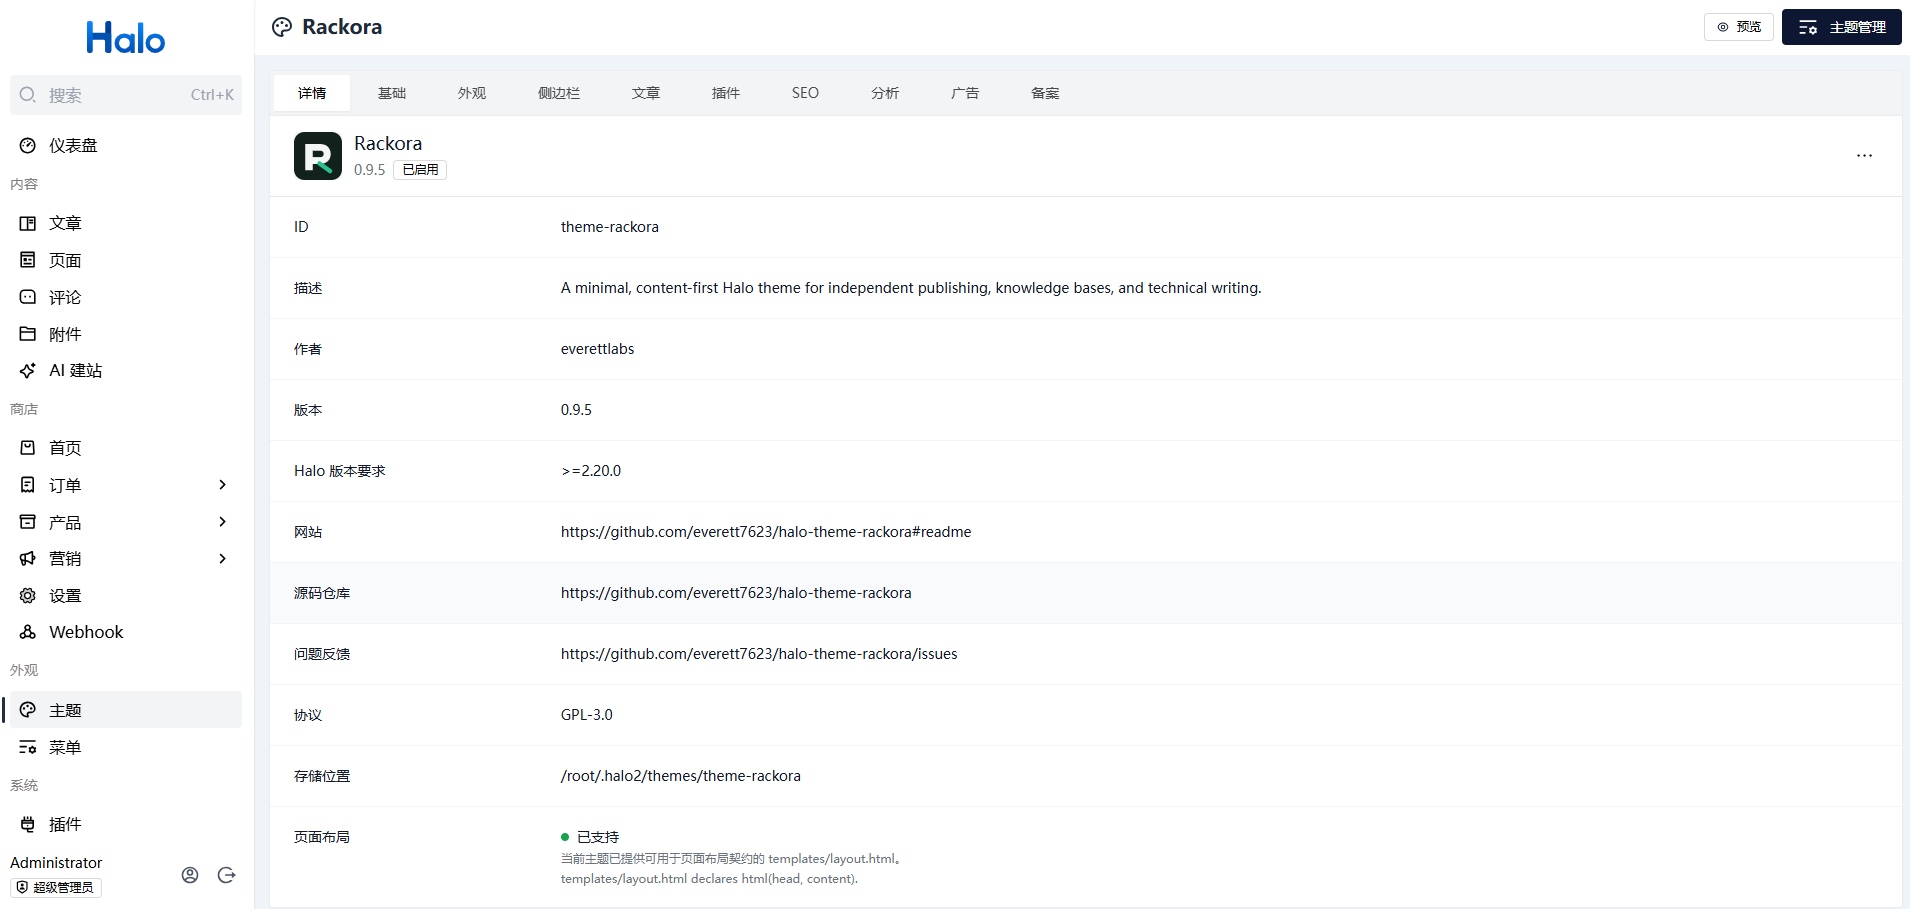
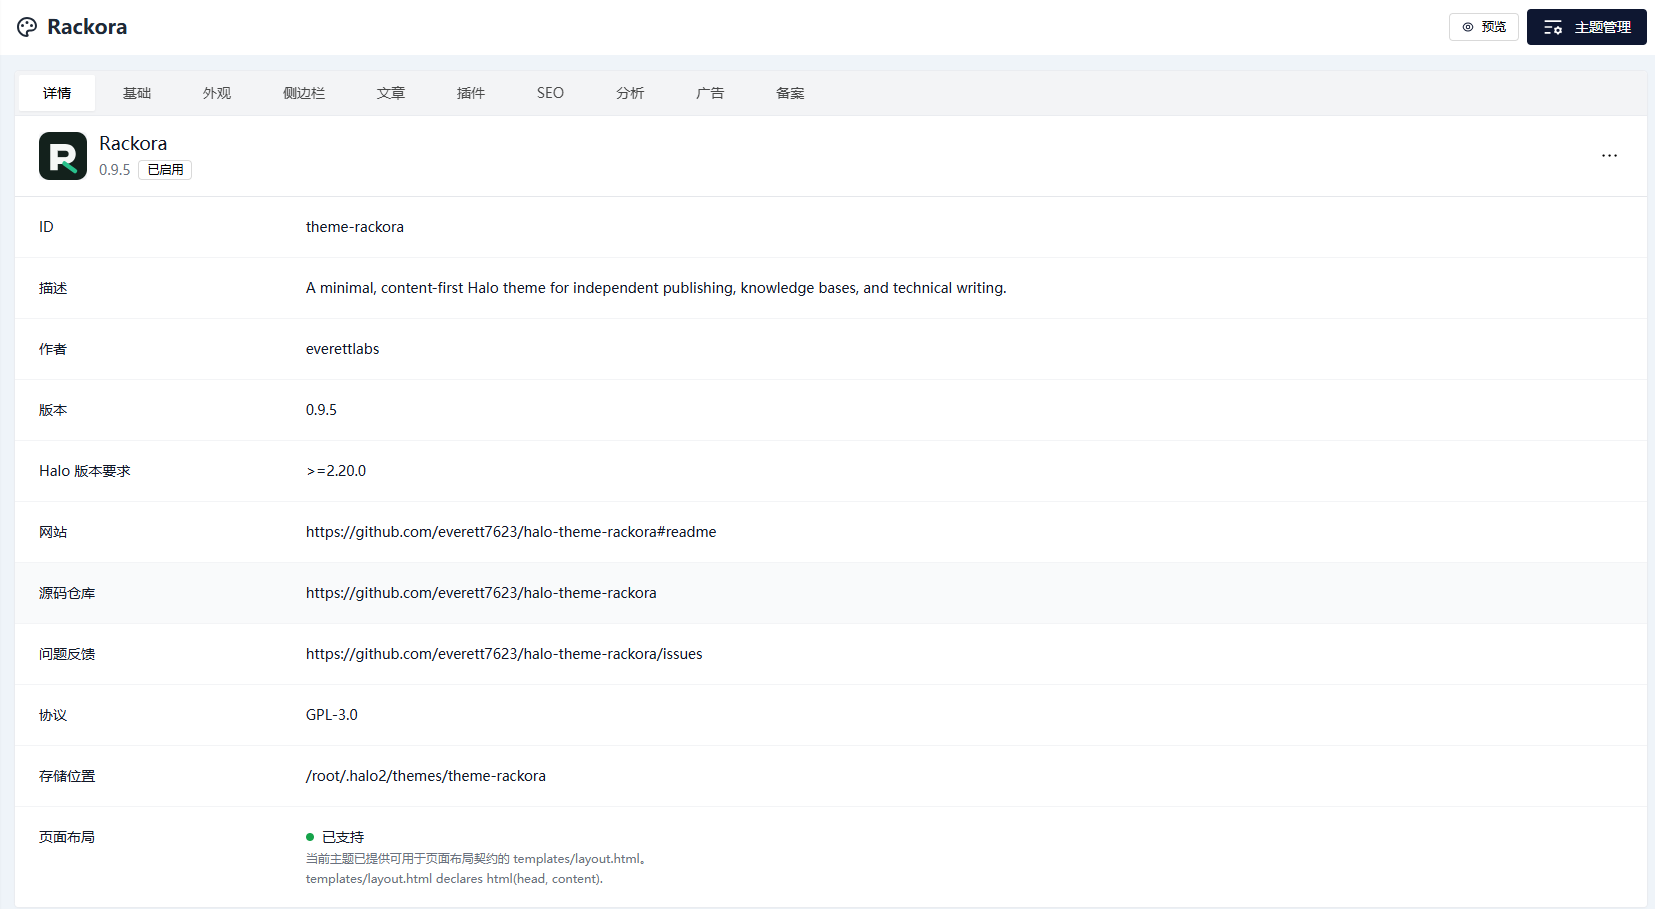
发布 Rackora v0.9.6：统一中英文文案与分类用语
- 中文界面统一使用“分类”，与 Halo 后台一致，不再与“栏目”混用
- 英文界面计数为 1 时使用单数；页脚署名、资料卡副标题回退和横幅图片描述跟随界面语言
- 主题详情描述与自定义模板名改为中文，模板名保留英文对照；设置说明补充网站语言应与正文一致
- README 加入 Logo 与完整截图；Console 主题详情截图去掉侧栏与重复行；删除未被引用的旧版 screenshot.png
- 验证脚本防止“栏目”、英文复数拼接和写死的英文署名回归

diff --git a/src/categories.html b/src/categories.html
@@ -1,14 +1,14 @@
 <include src="layout.html">
   <template name="head">
     <title
-      th:text="|${theme.config.basic.ui_language == 'zh-CN' ? '全部栏目' : 'Categories'} - ${site.title}|"
+      th:text="|${theme.config.basic.ui_language == 'zh-CN' ? '全部分类' : 'Categories'} - ${site.title}|"
     >
       Categories
     </title>
     <include
       src="seo-head.html"
       path="site.routes.categoriesUri"
-      title="(theme.config.basic.ui_language == 'zh-CN' ? '全部栏目' : 'Categories') + ' - ' + site.title"
+      title="(theme.config.basic.ui_language == 'zh-CN' ? '全部分类' : 'Categories') + ' - ' + site.title"
       description="site.seo.description ?: site.subtitle"
       image="site.logo"
       type="website"
@@ -16,7 +16,7 @@
   </template>
 
   <header class="archive-heading">
-    <h1 th:text="${theme.config.basic.ui_language == 'zh-CN' ? '全部栏目' : 'Categories'}">
+    <h1 th:text="${theme.config.basic.ui_language == 'zh-CN' ? '全部分类' : 'Categories'}">
       Categories
     </h1>
     <p
@@ -32,7 +32,7 @@
         <strong th:text="${category.spec.displayName}">Category</strong>
         <span class="taxonomy-grid__count" th:text="${category.postCount}">0</span>
         <span
-          th:text="${category.spec.description ?: (theme.config.basic.ui_language == 'zh-CN' ? '查看该栏目下的全部内容' : 'View every post in this category')}"
+          th:text="${category.spec.description ?: (theme.config.basic.ui_language == 'zh-CN' ? '查看该分类下的全部内容' : 'View every post in this category')}"
         ></span>
       </a>
       <ul class="taxonomy-children" th:if="${not #lists.isEmpty(category.children)}">
@@ -44,12 +44,12 @@
   </ul>
   <div class="empty-state" th:if="${#lists.isEmpty(categories)}">
     <h2
-      th:text="${theme.config.basic.ui_language == 'zh-CN' ? '尚未创建栏目' : 'No categories yet'}"
+      th:text="${theme.config.basic.ui_language == 'zh-CN' ? '尚未创建分类' : 'No categories yet'}"
     >
       No categories yet
     </h2>
     <p
-      th:text="${theme.config.basic.ui_language == 'zh-CN' ? '在 Halo 后台建立栏目后，它们会显示在这里。' : 'Categories created in Halo will appear here.'}"
+      th:text="${theme.config.basic.ui_language == 'zh-CN' ? '在 Halo 后台建立分类后，它们会显示在这里。' : 'Categories created in Halo will appear here.'}"
     >
       Categories created in Halo will appear here.
     </p>

diff --git a/src/index.html b/src/index.html
@@ -51,7 +51,7 @@
   <figure class="home-banner" th:if="${not #strings.isEmpty(theme.config.appearance.banner_image)}">
     <img
       th:src="${theme.config.appearance.banner_image}"
-      th:alt="|${site.title} banner|"
+      th:alt="${theme.config.basic?.ui_language == 'zh-CN' ? site.title + ' 横幅' : site.title + ' banner'}"
       width="1600"
       height="480"
       decoding="async"
@@ -74,7 +74,10 @@
       <h1 id="home-title" th:text="${site.title}">站点标题</h1>
       <p th:if="${not #strings.isEmpty(site.subtitle)}" th:text="${site.subtitle}"></p>
       <div class="home-heading__meta">
-        <span th:text="${isZhCN ? posts.total + ' 篇内容' : posts.total + ' posts'}">0 posts</span>
+        <span
+          th:text="${isZhCN ? posts.total + ' 篇内容' : posts.total + (posts.total == 1 ? ' post' : ' posts')}"
+          >0 posts</span
+        >
         <span th:text="${homeTaglineText}">Written for clarity and longevity</span>
       </div>
     </section>
@@ -132,7 +135,9 @@
           />
           <div class="profile-panel__copy" th:unless="${useWideLogo}">
             <h2 th:text="${site.title}">Rackora</h2>
-            <p th:text="${site.subtitle ?: 'Independent publishing with clarity and care.'}"></p>
+            <p
+              th:text="${site.subtitle ?: (isZhCN ? '清晰而用心的独立出版。' : 'Independent publishing with clarity and care.')}"
+            ></p>
           </div>
           <nav
             class="profile-socials"
@@ -195,7 +200,7 @@
             <ul>
               <li th:each="category : ${homeCategories}">
                 <a th:href="@{${category.status.permalink}}">
-                  <span th:text="${category.spec.displayName}">栏目</span>
+                  <span th:text="${category.spec.displayName}">分类</span>
                   <small th:text="${category.postCount}">0</small>
                 </a>
               </li>

diff --git a/src/category.html b/src/category.html
@@ -20,7 +20,7 @@
     <include
       src="archive-breadcrumbs.html"
       crumbParentHref="site.routes.categoriesUri"
-      crumbParentLabel="theme.config.basic.ui_language == 'zh-CN' ? '全部栏目' : 'Categories'"
+      crumbParentLabel="theme.config.basic.ui_language == 'zh-CN' ? '全部分类' : 'Categories'"
       crumbCurrent="category.spec.displayName"
     ></include>
     <h1 th:text="${category.spec.displayName}">Category</h1>
@@ -30,7 +30,7 @@
     ></p>
     <p
       th:if="${#strings.isEmpty(category.spec.description)}"
-      th:text="${theme.config.basic.ui_language == 'zh-CN' ? posts.total + ' 篇相关内容' : posts.total + ' related posts'}"
+      th:text="${theme.config.basic.ui_language == 'zh-CN' ? posts.total + ' 篇相关内容' : posts.total + (posts.total == 1 ? ' related post' : ' related posts')}"
     >
       Related posts
     </p>
@@ -56,12 +56,12 @@
   </ul>
   <div class="empty-state" th:if="${#lists.isEmpty(posts.items)}">
     <h2
-      th:text="${theme.config.basic.ui_language == 'zh-CN' ? '这个栏目暂时没有文章' : 'No posts in this category'}"
+      th:text="${theme.config.basic.ui_language == 'zh-CN' ? '这个分类暂时没有文章' : 'No posts in this category'}"
     >
       No posts in this category
     </h2>
     <p
-      th:text="${theme.config.basic.ui_language == 'zh-CN' ? '可以先浏览其他栏目或返回首页。' : 'Browse another category or return home.'}"
+      th:text="${theme.config.basic.ui_language == 'zh-CN' ? '可以先浏览其他分类或返回首页。' : 'Browse another category or return home.'}"
     >
       Browse another category or return home.
     </p>

diff --git a/src/partials/layout.html b/src/partials/layout.html
@@ -207,7 +207,7 @@
             <li>
               <a
                 th:href="@{${site.routes.categoriesUri}}"
-                th:text="${theme.config.basic.ui_language == 'zh-CN' ? '栏目' : 'Categories'}"
+                th:text="${theme.config.basic.ui_language == 'zh-CN' ? '分类' : 'Categories'}"
                 >Categories</a
               >
             </li>
@@ -275,7 +275,7 @@
             >
             <a
               th:href="@{${site.routes.categoriesUri}}"
-              th:text="${theme.config.basic.ui_language == 'zh-CN' ? '栏目' : 'Categories'}"
+              th:text="${theme.config.basic.ui_language == 'zh-CN' ? '分类' : 'Categories'}"
               >Categories</a
             >
             <a
@@ -297,7 +297,10 @@
           </th:block>
         </nav>
         <small>
-          <span>Powered by Halo</span>
+          <span
+            th:text="${theme.config.basic.ui_language == 'zh-CN' ? '由 Halo 驱动' : 'Powered by Halo'}"
+            >Powered by Halo</span
+          >
           <th:block
             th:if="${theme.config.basic.show_theme_credit == null or theme.config.basic.show_theme_credit}"
           >

diff --git a/src/post.html b/src/post.html
@@ -110,7 +110,7 @@
             itemtype="https://schema.org/ListItem"
           >
             <a itemprop="item" th:href="@{${post.categories[0].status.permalink}}">
-              <span itemprop="name" th:text="${post.categories[0].spec.displayName}">栏目</span>
+              <span itemprop="name" th:text="${post.categories[0].spec.displayName}">分类</span>
             </a>
             <meta itemprop="position" content="2" />
           </span>
@@ -158,7 +158,7 @@
             >Calculating reading time</span
           >
           <span
-            th:text="${theme.config.basic.ui_language == 'zh-CN' ? post.stats.visit + ' 阅读' : post.stats.visit + ' views'}"
+            th:text="${theme.config.basic.ui_language == 'zh-CN' ? post.stats.visit + ' 阅读' : post.stats.visit + (post.stats.visit == 1 ? ' view' : ' views')}"
             >0 views</span
           >
         </div>

diff --git a/src/partials/post-card.html b/src/partials/post-card.html
@@ -44,11 +44,11 @@
     <p class="post-entry__excerpt" th:text="${post.status.excerpt}"></p>
     <div class="post-entry__meta">
       <span
-        th:text="${theme.config.basic.ui_language == 'zh-CN' ? post.stats.visit + ' 阅读' : post.stats.visit + ' views'}"
+        th:text="${theme.config.basic.ui_language == 'zh-CN' ? post.stats.visit + ' 阅读' : post.stats.visit + (post.stats.visit == 1 ? ' view' : ' views')}"
         >0 views</span
       >
       <span
-        th:text="${theme.config.basic.ui_language == 'zh-CN' ? post.stats.comment + ' 评论' : post.stats.comment + ' comments'}"
+        th:text="${theme.config.basic.ui_language == 'zh-CN' ? post.stats.comment + ' 评论' : post.stats.comment + (post.stats.comment == 1 ? ' comment' : ' comments')}"
         >0 comments</span
       >
       <span

diff --git a/src/archives.html b/src/archives.html
@@ -22,7 +22,7 @@
       Archives
     </h1>
     <p
-      th:text="${theme.config.basic.ui_language == 'zh-CN' ? '共 ' + archives.total + ' 篇公开内容，按发布时间整理。' : archives.total + ' public posts, organized by publish date.'}"
+      th:text="${theme.config.basic.ui_language == 'zh-CN' ? '共 ' + archives.total + ' 篇公开内容，按发布时间整理。' : archives.total + (archives.total == 1 ? ' public post' : ' public posts') + ', organized by publish date.'}"
     >
       Public posts organized by publish date.
     </p>

diff --git a/src/author.html b/src/author.html
@@ -29,7 +29,7 @@
       <p th:if="${not #strings.isEmpty(author.spec.bio)}" th:text="${author.spec.bio}"></p>
       <p
         class="author-heading__count"
-        th:text="${theme.config.basic.ui_language == 'zh-CN' ? '发布了 ' + posts.total + ' 篇公开内容' : posts.total + ' public posts'}"
+        th:text="${theme.config.basic.ui_language == 'zh-CN' ? '发布了 ' + posts.total + ' 篇公开内容' : posts.total + (posts.total == 1 ? ' public post' : ' public posts')}"
       >
         Public posts
       </p>

diff --git a/src/tag.html b/src/tag.html
@@ -35,7 +35,7 @@
     ></p>
     <p
       th:if="${#strings.isEmpty(#annotations.get(tag, 'rackora_description'))}"
-      th:text="${theme.config.basic.ui_language == 'zh-CN' ? posts.total + ' 篇相关内容' : posts.total + ' related posts'}"
+      th:text="${theme.config.basic.ui_language == 'zh-CN' ? posts.total + ' 篇相关内容' : posts.total + (posts.total == 1 ? ' related post' : ' related posts')}"
     >
       Related posts
     </p>

diff --git a/src/post_docs.html b/src/post_docs.html
@@ -150,7 +150,7 @@
       >
         <header class="article-sidebar__heading">
           <h2
-            th:text="${theme.config.basic.ui_language == 'zh-CN' ? '同栏目' : 'In this category'}"
+            th:text="${theme.config.basic.ui_language == 'zh-CN' ? '同分类' : 'In this category'}"
           >
             In this category
           </h2>

diff --git a/src/js/main.ts b/src/js/main.ts
@@ -247,7 +247,7 @@ function initSiteUptime(): void {
         : String(days)
       : isChineseUi()
         ? `运行 ${days} 天`
-        : `Online for ${days} days`;
+        : `Online for ${days} ${days === 1 ? "day" : "days"}`;
   }
 }
 
